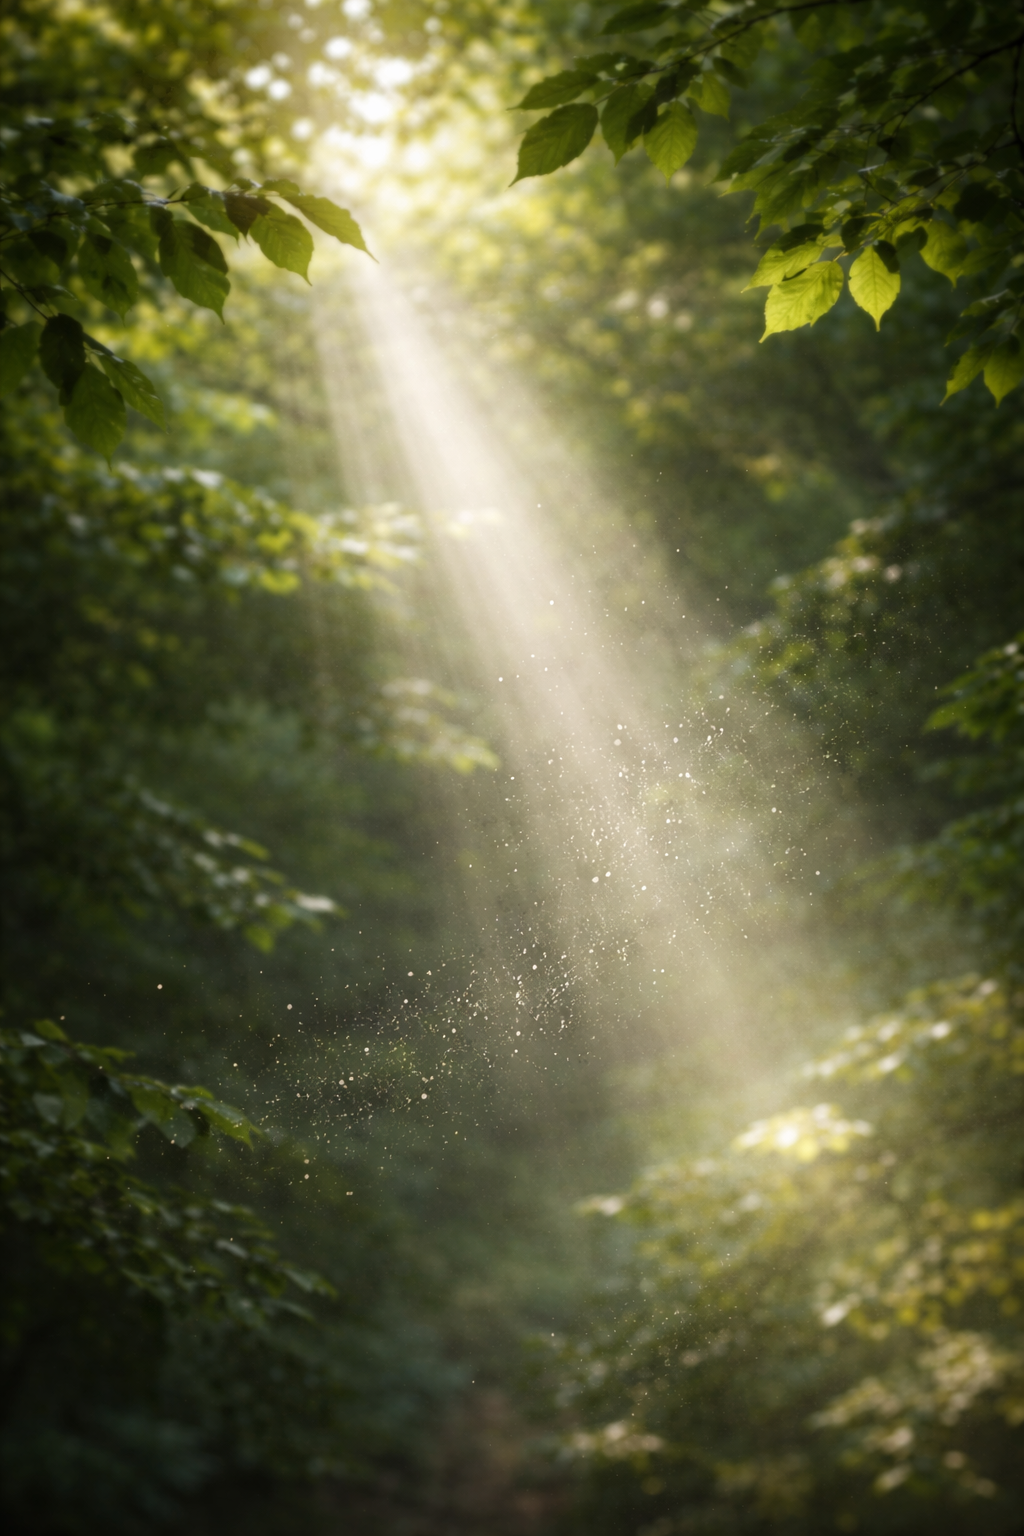
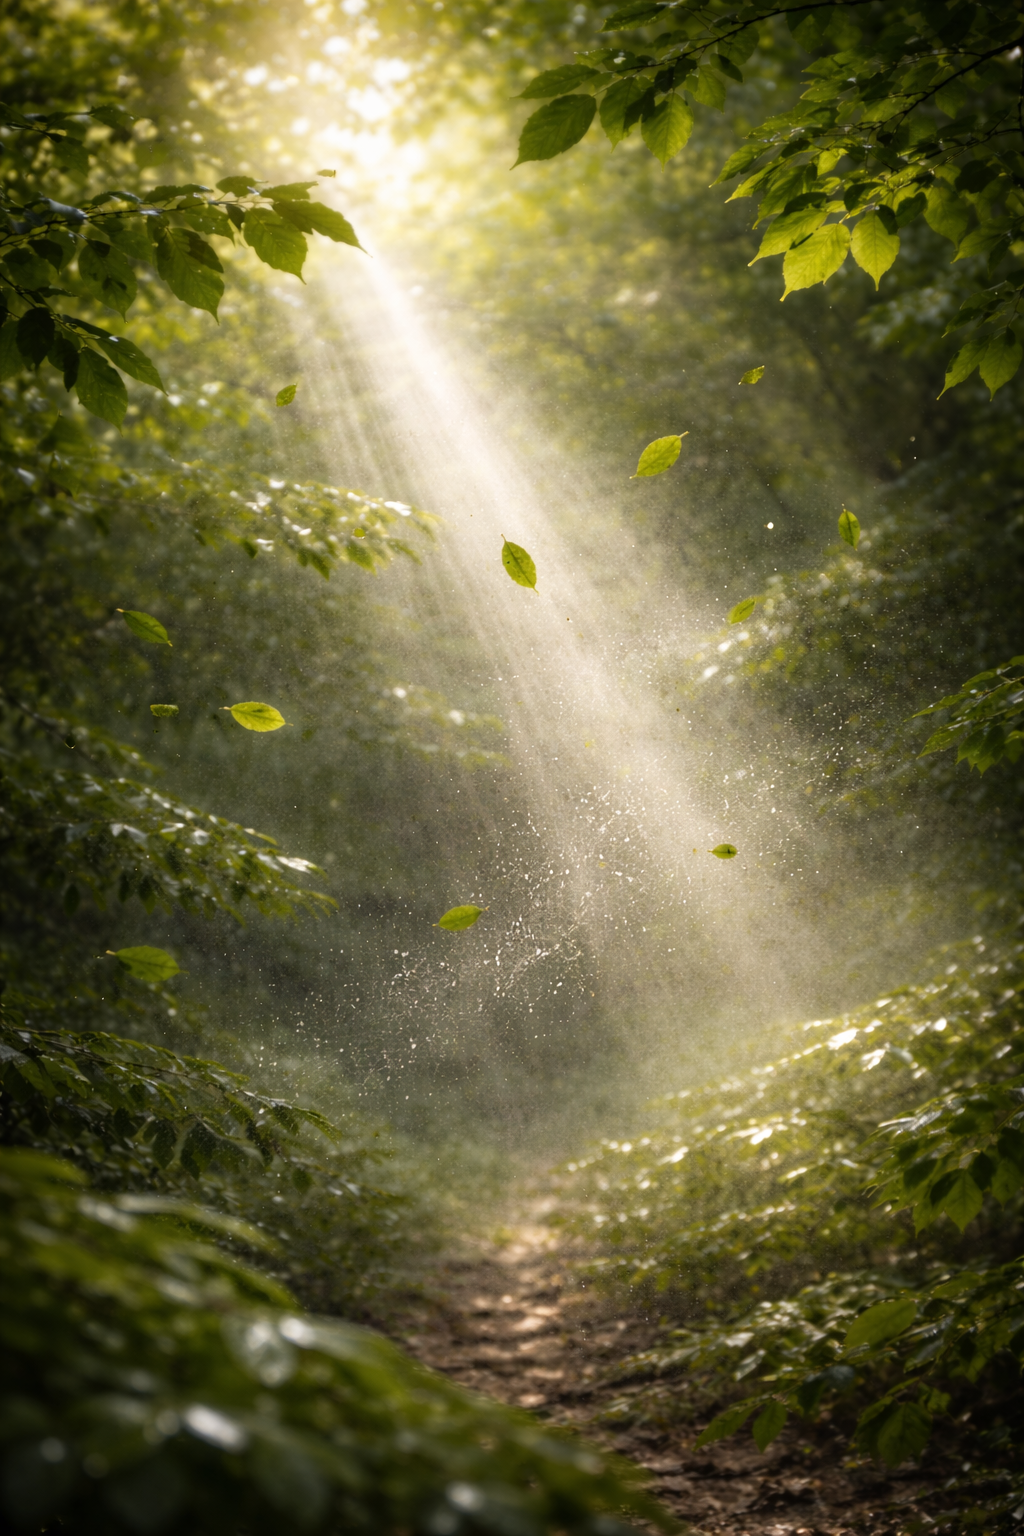
Alteração das imagens de fundo

diff --git a/main/styles/style.css b/main/styles/style.css
@@ -289,3 +289,110 @@ button:hover {
   opacity: 1;
   transform: translateY(0);
 }
+
+/* ========================= */
+/* FRAGRÂNCIA SENSORIAL */
+/* ========================= */
+
+.fragrancia {
+  display: flex;
+  flex-direction: column;
+  padding: 0;
+}
+
+/* BASE DAS NOTAS */
+.nota {
+  width: 100%;
+  height: 33.33vh;
+
+  display: flex;
+  align-items: center;
+  justify-content: center;
+  text-align: center;
+
+  position: relative;
+  overflow: hidden;
+}
+
+/* TEXTO */
+.nota p {
+  position: relative;
+  z-index: 3;
+  max-width: 320px;
+  font-size: 1.1rem;
+  opacity: 0.9;
+}
+
+/* CAMADA DE IMAGEM */
+.nota::before {
+  content: "";
+  position: absolute;
+  inset: 0;
+
+  background-size: cover;
+  background-position: center;
+
+  filter: blur(6px);
+  transform: scale(1.2);
+
+  z-index: 1;
+}
+
+/* OVERLAY ESCURO */
+.nota::after {
+  content: "";
+  position: absolute;
+  inset: 0;
+
+  background: linear-gradient(
+    rgba(0,0,0,0.5),
+    rgba(0,0,0,0.7)
+  );
+
+  z-index: 2;
+}
+
+/* ========================= */
+/* TOPO */
+/* ========================= */
+.topo::before {
+  background-image: url("../assets/images/Raio\ de\ sol\ na\ floresta\ ao\ amanhecer.png");
+}
+
+/* ========================= */
+/* CORAÇÃO */
+/* ========================= */
+.coracao::before {
+  background-image: url("../assets/images/Raio\ de\ sol\ na\ floresta\ densa.png");
+}
+
+/* ========================= */
+/* FUNDO */
+/* ========================= */
+.fundo::before {
+  background-image: url("../assets/images/Raízes\ iluminadas\ na\ floresta\ tropical.png");
+}
+
+/* ========================= */
+/* VARIAÇÃO DE LUZ (SUTIL) */
+/* ========================= */
+.topo::after {
+  background: linear-gradient(
+    rgba(0,0,0,0.4),
+    rgba(0,0,0,0.6)
+  );
+}
+
+.coracao::after {
+  background: linear-gradient(
+    rgba(0,0,0,0.5),
+    rgba(0,0,0,0.75)
+  );
+}
+
+.fundo::after {
+  background: linear-gradient(
+    rgba(0,0,0,0.6),
+    rgba(0,0,0,0.85)
+  );
+}
